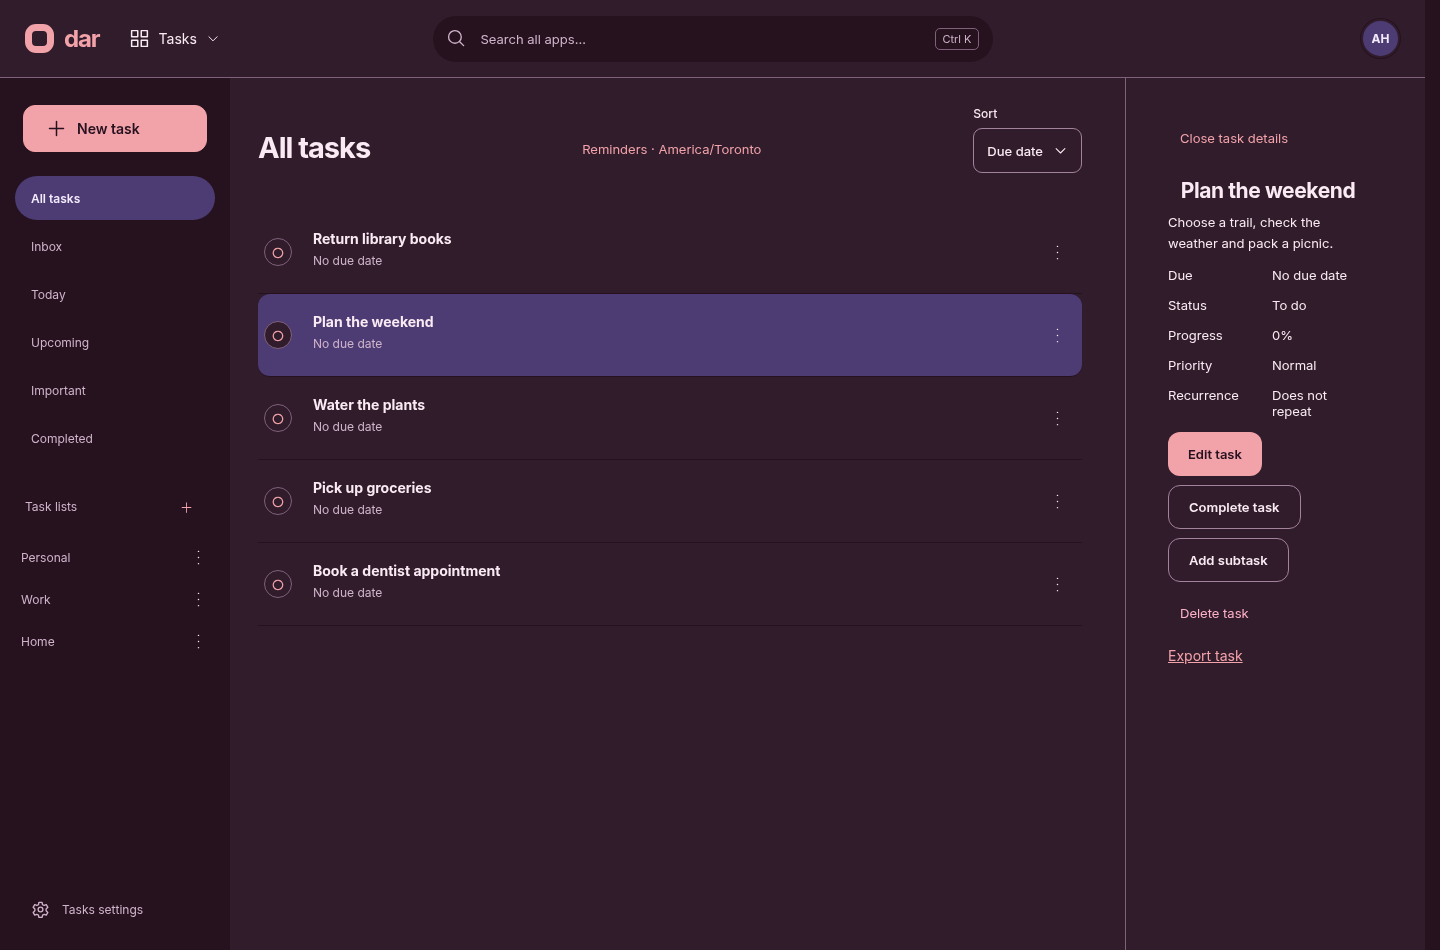
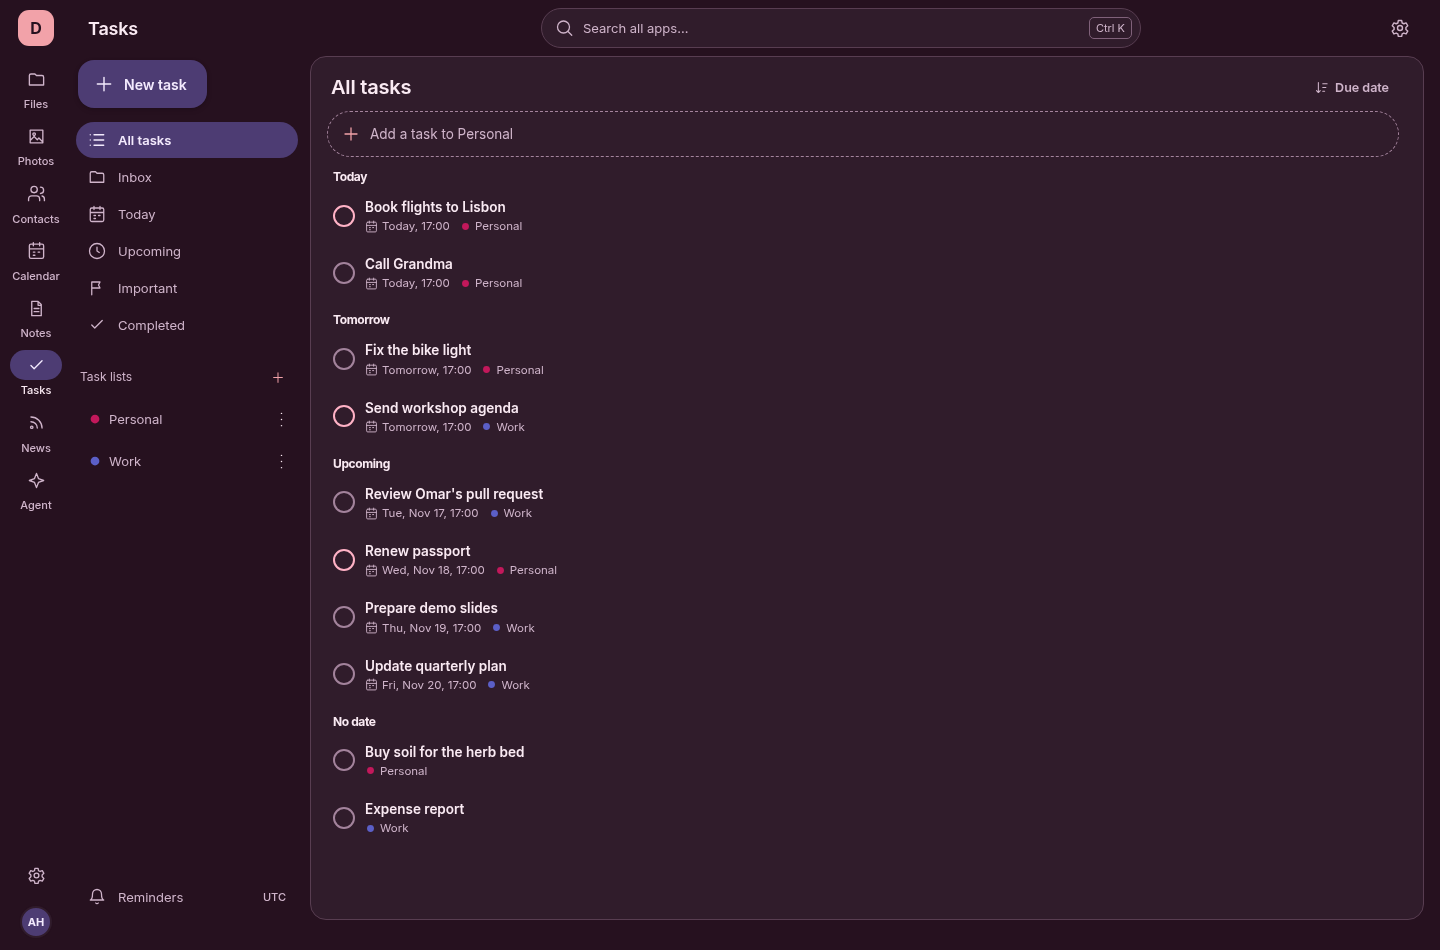
Refresh README screenshots for the current design
The screenshots showed the old header and app launcher. They now show the
app rail and current layouts with sample data: Files, Photos, Calendar,
Contacts, Notes and Tasks on a desktop in alternating light and dark themes,
and Photos and Calendar on a phone.

diff --git a/README.md b/README.md
@@ -6,13 +6,21 @@ provides OIDC sign-in and SCIM provisioning for other applications.
 
 ## Screenshots
 
-| Files · light | Calendar · dark |
+| Files · light | Photos · dark |
 | --- | --- |
-| ![Files in the light theme](docs/screenshots/files.png) | ![Calendar in the dark theme](docs/screenshots/calendar.png) |
+| ![Files in the light theme](docs/screenshots/files.png) | ![Photos in the dark theme](docs/screenshots/photos.png) |
+
+| Calendar · light | Contacts · dark |
+| --- | --- |
+| ![Calendar month view in the light theme](docs/screenshots/calendar.png) | ![Contacts with a contact open in the dark theme](docs/screenshots/contacts.png) |
 
 | Notes · light | Tasks · dark |
 | --- | --- |
-| ![Notes in the light theme](docs/screenshots/notes.png) | ![Tasks in the dark theme](docs/screenshots/tasks.png) |
+| ![Notes with a note open in the light theme](docs/screenshots/notes.png) | ![Tasks in the dark theme](docs/screenshots/tasks.png) |
+
+| Phone · Photos | Phone · Calendar |
+| --- | --- |
+| <img src="docs/screenshots/phone-photos.png" alt="Photos on a phone in the light theme" width="300"> | <img src="docs/screenshots/phone-calendar.png" alt="Calendar day view on a phone in the dark theme" width="300"> |
 
 ## Run locally
 
